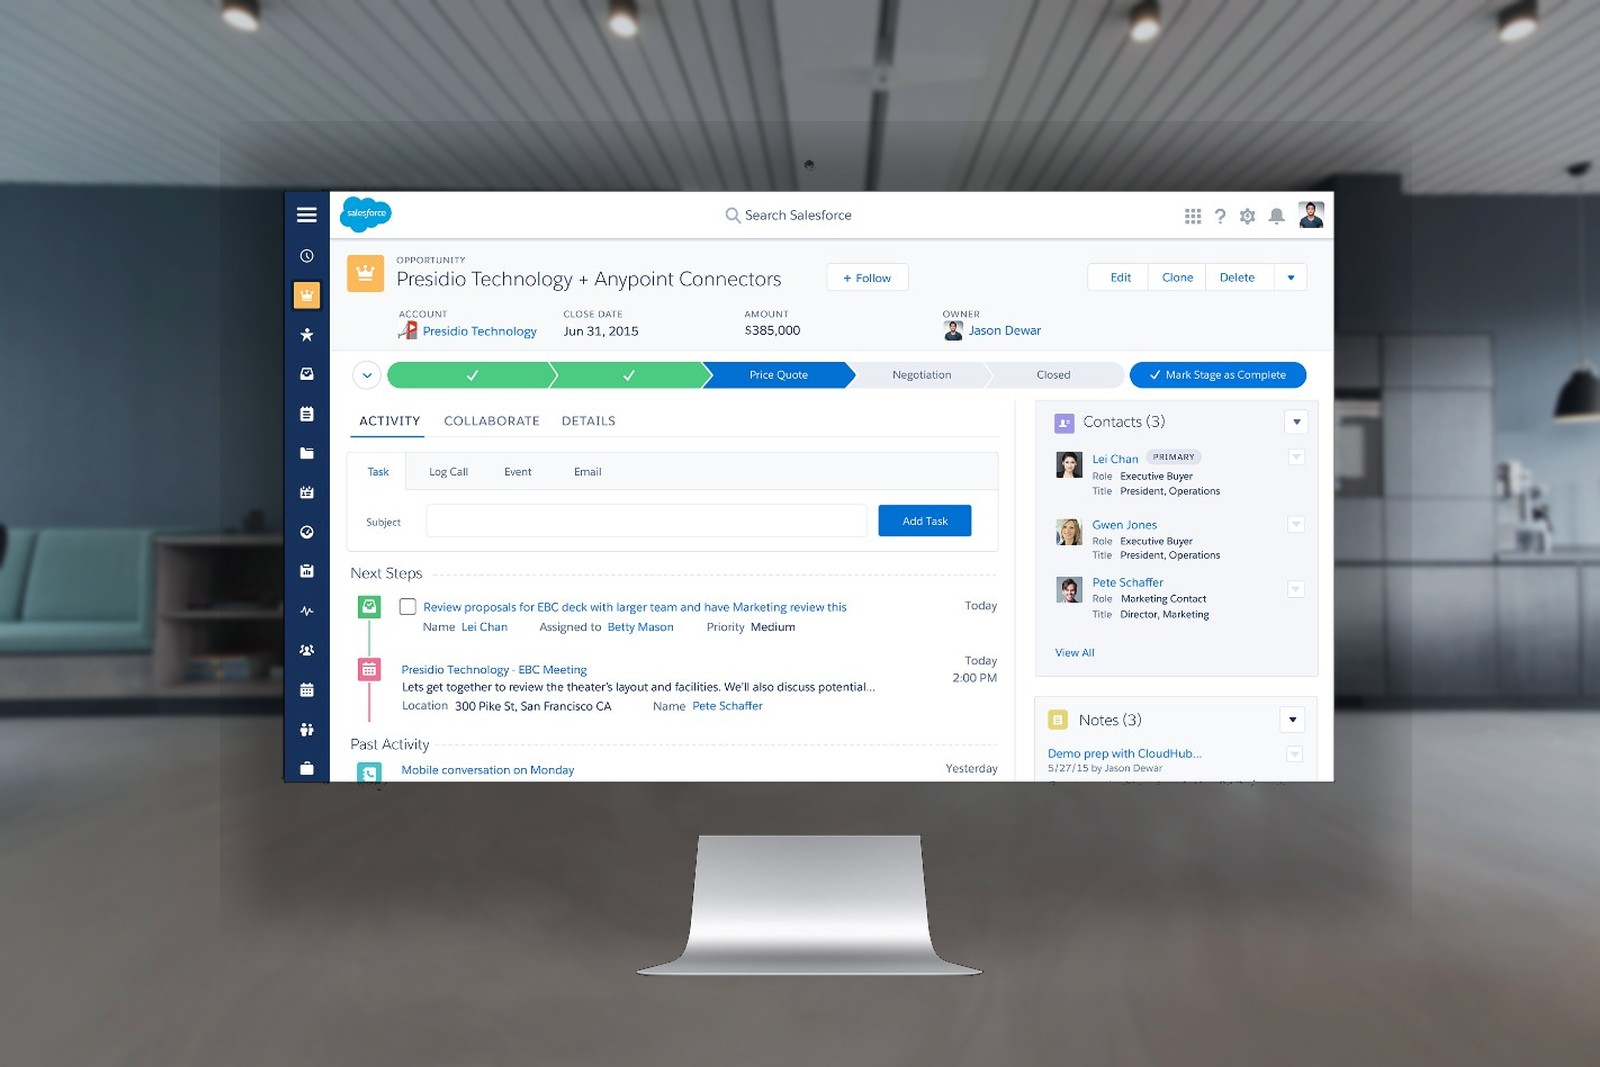
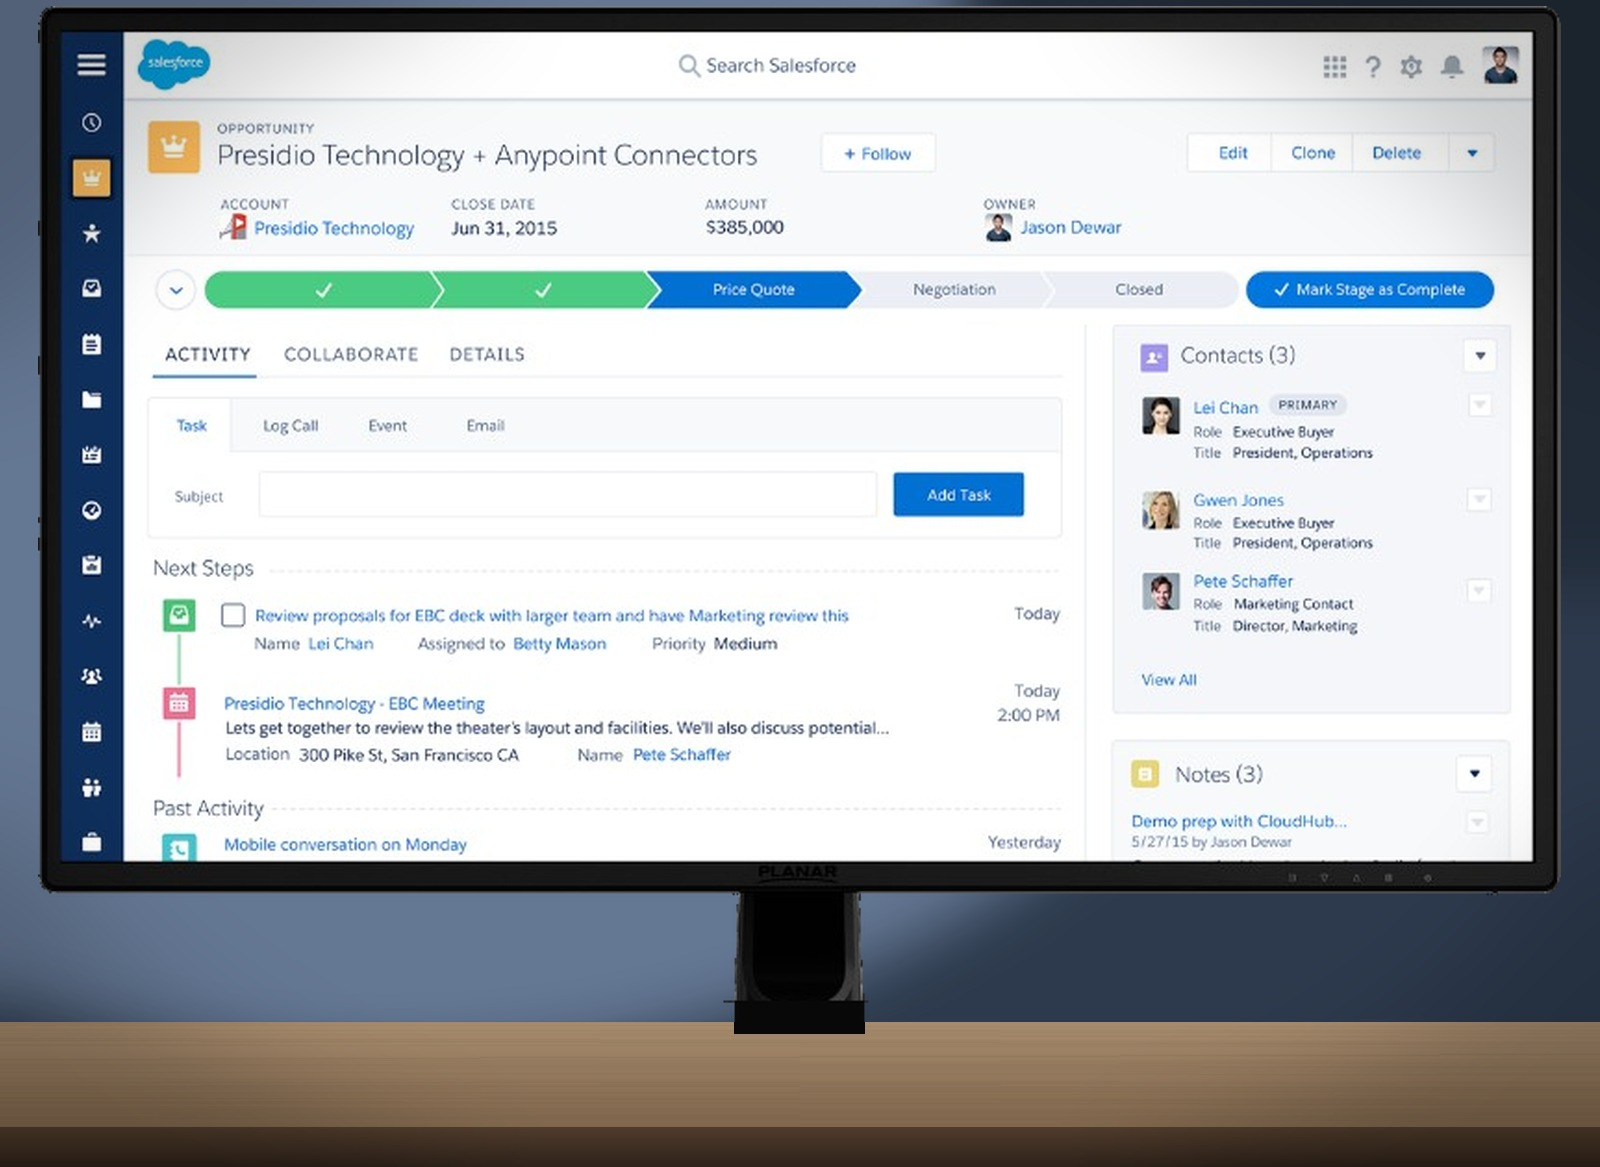
Refine Banco ownership mockup and copy wording.
Enlarge the desk-mounted Salesforce monitor and replace build/case phrasing with desarrollar/proyecto.

diff --git a/src/data.ts b/src/data.ts
@@ -157,12 +157,12 @@ export const PROJECTS: Project[] = [
         title: "Resultados y aprendizajes",
         kicker: "Impacto",
         accent: "white",
-        body: "El flujo de límites quedó validado con usuarios y con handoff listo para build en Salesforce. El −50% de tiempo en el proceso de crédito es un objetivo de programa; este case documenta el aporte del paso de límites y la evidencia de usabilidad previa al go-live.",
+        body: "El flujo de límites quedó validado con usuarios y con handoff listo para desarrollar en Salesforce. El −50% de tiempo en el proceso de crédito es un objetivo de programa; este proyecto documenta el aporte del paso de límites y la evidencia de usabilidad previa al go-live.",
         items: [
           {
             icon: "rocket",
             title: "Estado",
-            text: "Diseño validado (EC / Riesgos) y especificado para engineering. Build e implementación en Salesforce a cargo de desarrollo.",
+            text: "Diseño validado (EC / Riesgos) y especificado para engineering. Implementación en Salesforce a cargo del equipo de desarrollo.",
           },
           {
             icon: "flask",
@@ -177,7 +177,7 @@ export const PROJECTS: Project[] = [
           {
             icon: "sticky-note",
             title: "Aprendizaje",
-            text: "En Salesforce, cada custom UI pelea con costo y tiempo de build: prioricé reglas, claridad y handoff sobre ornamentación.",
+            text: "En Salesforce, cada custom UI pelea con costo y tiempo de desarrollo: prioricé reglas, claridad y handoff sobre ornamentación.",
           },
         ],
       },
@@ -292,7 +292,7 @@ export const EXPERIENCE_HISTORY: Experience[] = [
     duration: "2024 - Presente",
     description: [
       "Lideré el diseño E2E de 2 flujos de crédito en banca mayorista (incl. sanción de límites) para migrar trabajo manual entre Ejecutivo de Cuenta y Riesgos a Salesforce, con meta de reducir el proceso en ~50%.",
-      "Facilité definición con negocio, riesgos y engineering: arquitectura por permisos, validaciones y handoff listo para build en Salesforce y apps internas del banco.",
+      "Facilité definición con negocio, riesgos y engineering: arquitectura por permisos, validaciones y handoff listo para desarrollar en Salesforce y apps internas del banco.",
     ],
     current: true
   },

diff --git a/src/i18n/content.ts b/src/i18n/content.ts
@@ -143,12 +143,12 @@ const projectsEn: Project[] = [
         title: 'Outcomes and learnings',
         kicker: 'Impact',
         accent: 'white',
-        body: 'The limits flow was validated with users and handed off ready for Salesforce build. The −50% credit-process time target is a program-level goal; this case documents the limits step’s contribution and the usability evidence before go-live.',
+        body: 'The limits flow was validated with users and handed off ready to develop in Salesforce. The −50% credit-process time target is a program-level goal; this project documents the limits step’s contribution and the usability evidence before go-live.',
         items: [
           {
             icon: 'rocket',
             title: 'Status',
-            text: 'Design validated (AE / Risk) and specified for engineering. Salesforce build and implementation owned by development.',
+            text: 'Design validated (AE / Risk) and specified for engineering. Salesforce implementation owned by the development team.',
           },
           {
             icon: 'flask',
@@ -163,7 +163,7 @@ const projectsEn: Project[] = [
           {
             icon: 'sticky-note',
             title: 'Learning',
-            text: 'In Salesforce, every custom UI fights build cost and time: I prioritized rules, clarity, and handoff over ornamentation.',
+            text: 'In Salesforce, every custom UI fights development cost and time: I prioritized rules, clarity, and handoff over ornamentation.',
           },
         ],
       },
@@ -222,7 +222,7 @@ const experienceEn: Experience[] = [
     duration: '2024 - Present',
     description: [
       'Led end-to-end design of 2 wholesale credit flows (including limit sanctioning) to move manual Account Executive ↔ Risk work into Salesforce, targeting ~50% process reduction.',
-      'Facilitated definition with business, risk, and engineering: permission-based architecture, validations, and build-ready handoff for Salesforce and internal bank apps.',
+      'Facilitated definition with business, risk, and engineering: permission-based architecture, validations, and development-ready handoff for Salesforce and internal bank apps.',
     ],
   },
   {
